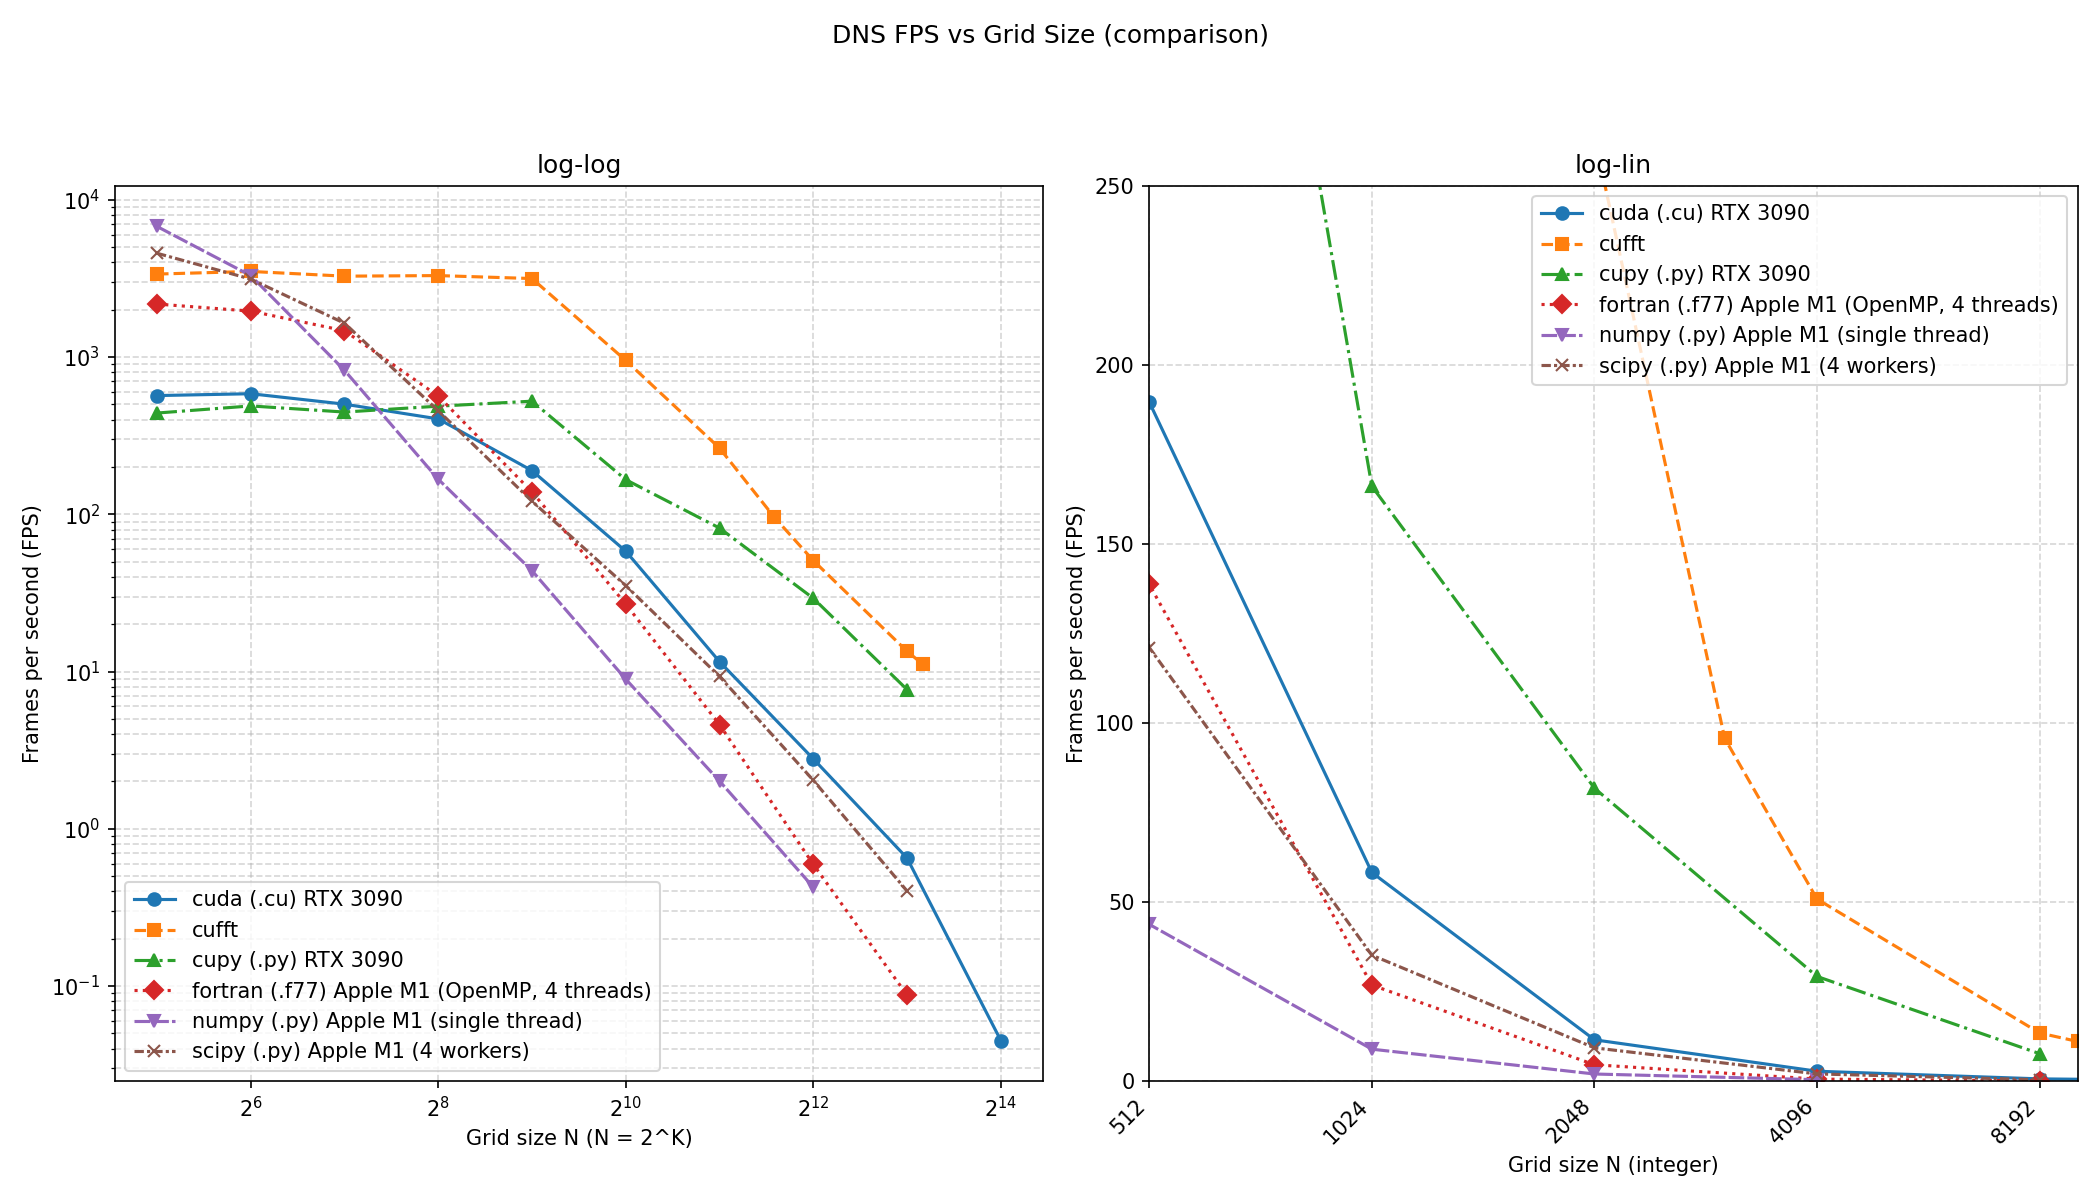
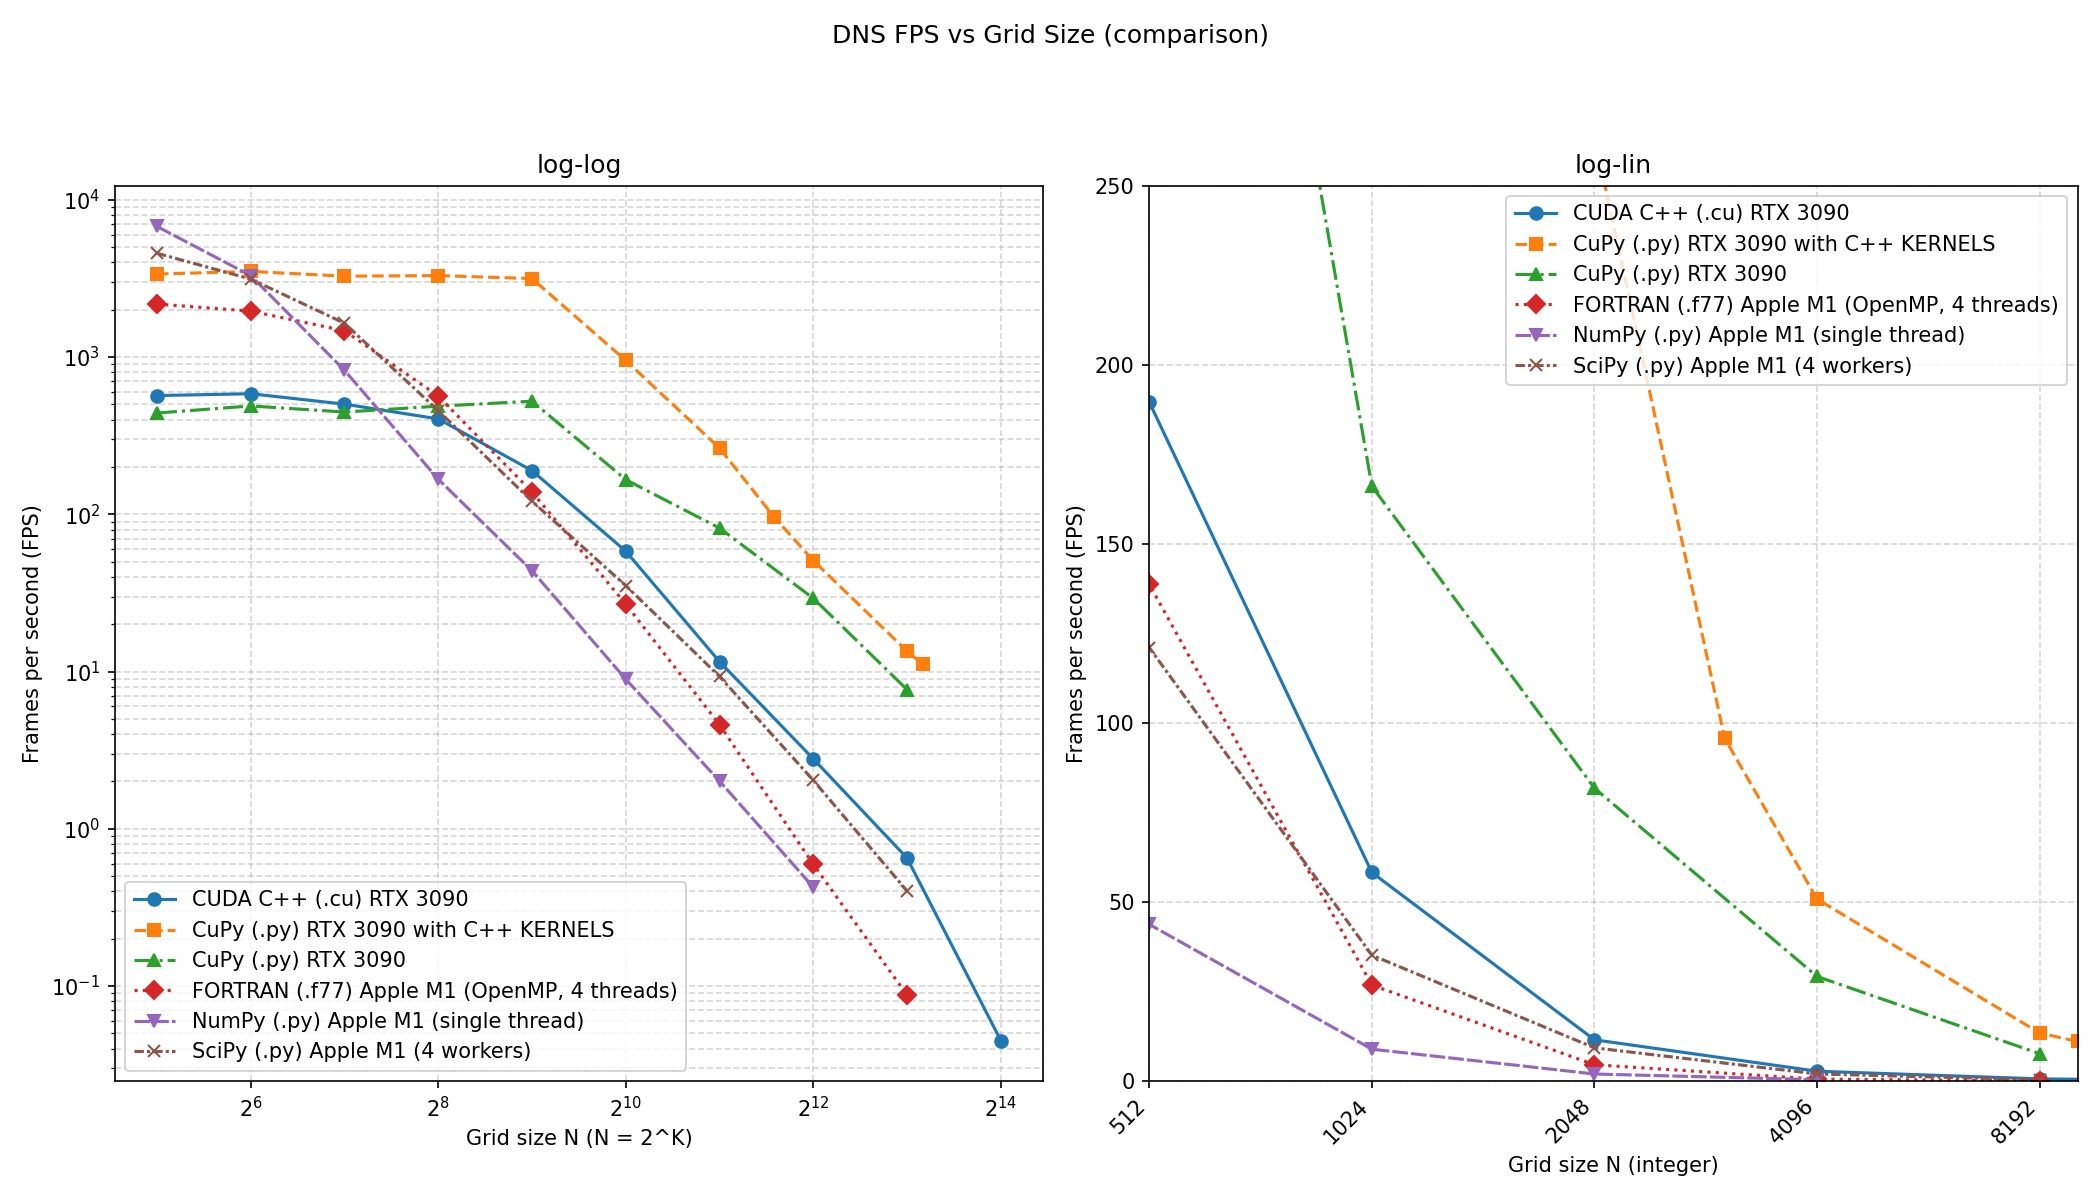
cufft

Changed region(s): [[0.0929, 0.74, 0.3405, 0.8942], [0.7119, 0.1542, 0.9595, 0.3083]]

diff --git a/fps/fps_compare.py b/fps/fps_compare.py
@@ -18,11 +18,12 @@ def label_from_filename(path: str) -> str:
     key = name.lower()
 
     label_map = {
-        "cuda":    "cuda (.cu) RTX 3090",
-        "cupy":    "cupy (.py) RTX 3090",
-        "fortran": "fortran (.f77) Apple M1 (OpenMP, 4 threads)",
-        "numpy":   "numpy (.py) Apple M1 (single thread)",
-        "scipy":   "scipy (.py) Apple M1 (4 workers)",
+        "cufft":   "CuPy (.py) RTX 3090 with C++ KERNELS",
+        "cupy":    "CuPy (.py) RTX 3090",
+        "cuda":    "CUDA C++ (.cu) RTX 3090",
+        "fortran": "FORTRAN (.f77) Apple M1 (OpenMP, 4 threads)",
+        "numpy":   "NumPy (.py) Apple M1 (single thread)",
+        "scipy":   "SciPy (.py) Apple M1 (4 workers)",
     }
 
     # exact match first, then fall back to substring match (for names like "cuda_fast", etc.)
